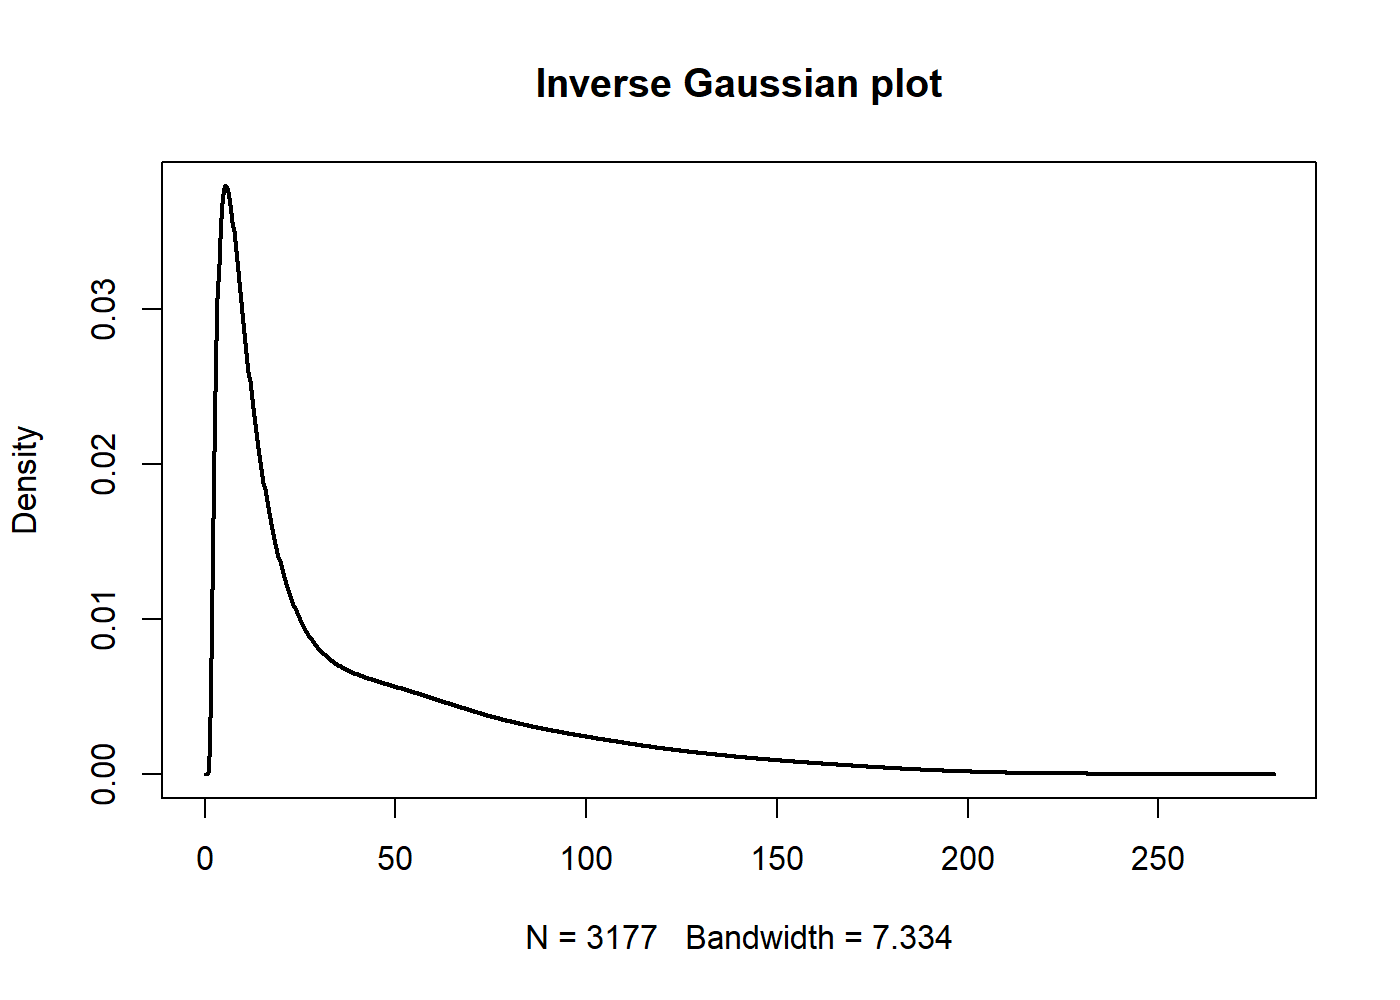
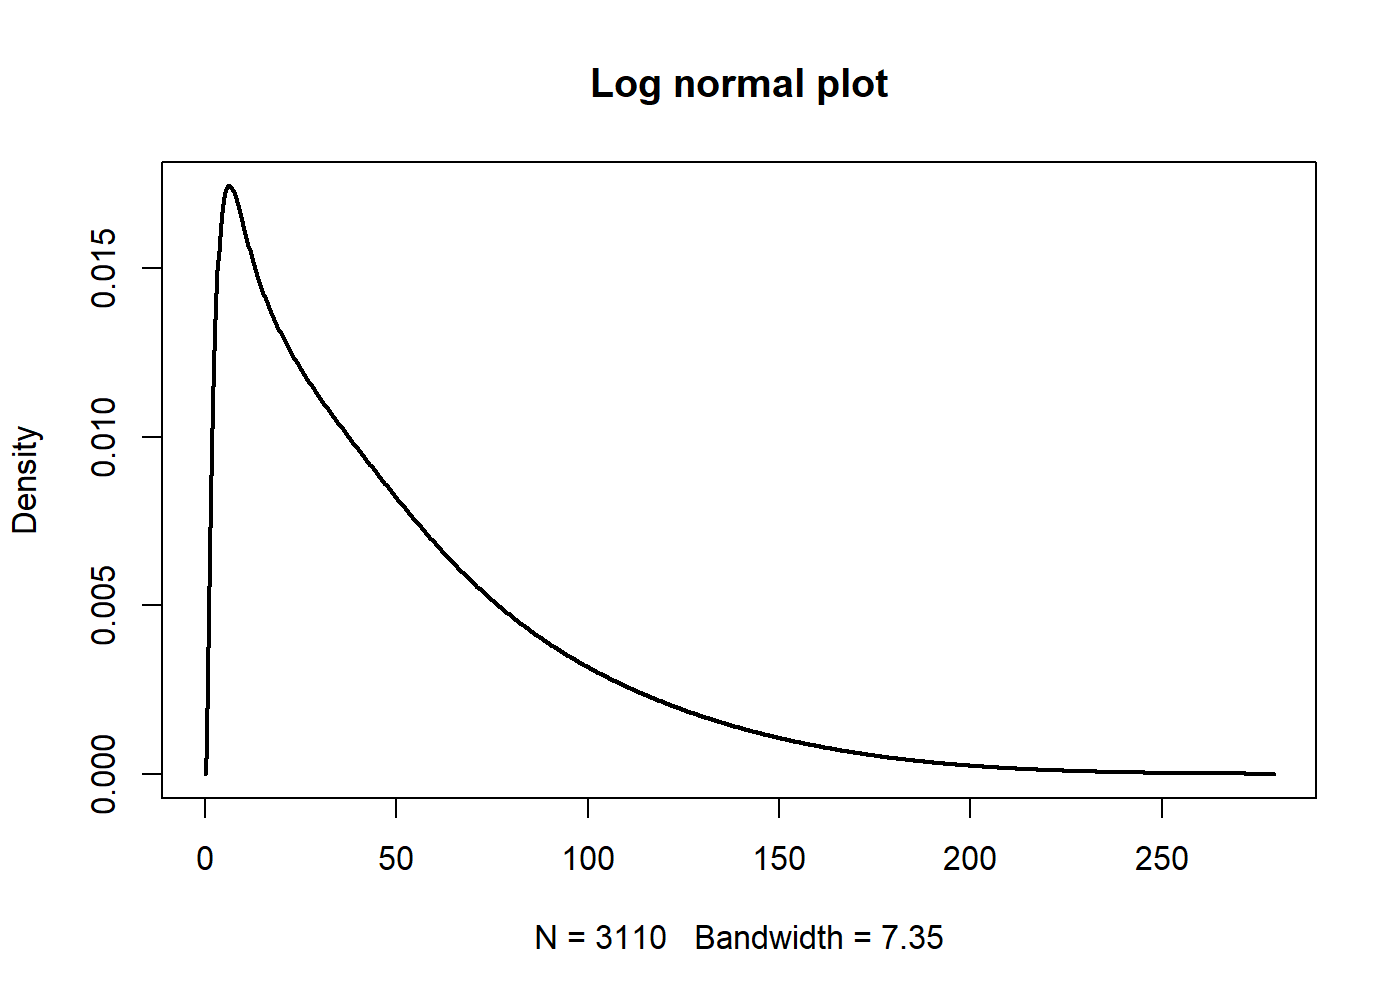
Updated readme.

diff --git a/README.md b/README.md
@@ -22,7 +22,31 @@ have decided on emulating the behaviour of the function `density` in the
 `stats` package (which is included in your `R` installation) to the
 highest extent possible.
 
-The package only contains one function, `kdensity`.
+In addition to parametric starts, the package implements some
+*asymmetric kernels*. These kernels are useful when modelling data with
+sharp boundaries, such as data supported on the positive half-line or
+the unit interval. Currently we support the following asymmetric
+kernels:
+
+  - MC Jones and Daniel Henderson’s Gaussian copula KDE, from
+    [Kernel-Type Density Estimation on the Unit Interval
+    (2007)](https://academic.oup.com/biomet/article-abstract/94/4/977/246269).
+    This is used for data on the unit interval. The bandwidth selection
+    mechanism described in that paper is implemented as well. This
+    kernel is called `gcopula`.
+
+  - Song Xi Chen’s two gammakernels from [Probability Density Function
+    Estimation Using Gamma Kernels
+    (2000)](https://link.springer.com/article/10.1023/A:1004165218295).
+    This is used for data supported on the positive half-line. These
+    kernels are called `gamma` and `gamma_biased`.
+
+So the package has two main features: parametric starts and asymmetric
+kernels. The features can be combined to make asymmetric kernel
+densities estimators with parametric starts, see the example below. The
+package contains only one function, `kdensity`, in addition to the
+generics `plot`, `points`, `lines`, `summary`, and `print`. It’s not
+completely documentet yet, so stay tuned for that.
 
 ## Example
 
@@ -33,37 +57,73 @@ estimation with a parametric start, as it is supported on positive
 half-line. In such a case, traditional density estimators are prone to
 serious *boundary bias*. However, parametric starts allows us to
 circumvent this by using a pre-specified parametric density supported on
-the half-line, for instance the exponential.
+the half-line, for instance the exponential, which clearly fits the data
+well.
 
 ``` r
 library("kdensity")
-plot(kdensity(sunspot.month, start = "exponential", adjust = 2), lwd = 2)
+data = sunspot.month[sunspot.month != 0]
+x = seq(0, 300, by = 0.5)
+hist(data, freq = FALSE, breaks = 40,
+     main = "Monthly Sunspot Numbers, 1749 – 1983",
+     xlab = "Monthly mean relative sunspot numbers")
+lines(kdensity(data, start = "exponential", kernel = "gaussian", adjust = 1),
+      lwd = 2, lty = 2, col = "red")
+lines(x, dexp(x, 1/mean(data)), lwd = 2, lty = 3, col = "blue")
 ```
 
-<img src="README_files/figure-gfm/small plot-1.png" width="750px" />
+<img src="README_files/figure-gfm/gaussiankernelexp plot-1.png" width="750px" />
 
-Lets compare this to the behaviour of `density` and `dexp`:
+As seen from the histogram, the fit is quite bad, so let us try out the
+`gamma` kernel. Notice the argument `start = "uniform"`, which states
+that the parametric start is *constant*. Using this argument reduces the
+density estimates to a classical kernel density estimate.
 
 ``` r
-y = seq(0, max(sunspot.month) + 10, by = 0.5)
-plot(kdensity(sunspot.month, start = "exponential", adjust = 2), lwd = 2)
-lines(y, dexp(y, 1/mean(sunspot.month)), lty = 2)
-lines(density(sunspot.month, kernel = "gauss", adjust = 2), lty = 3)
+library("kdensity")
+data = sunspot.month[sunspot.month != 0]
+x = seq(0, 300, by = 0.5)
+hist(data, freq = FALSE, breaks = 40,
+     main = "Monthly Sunspot Numbers, 1749 – 1983",
+     xlab = "Monthly mean relative sunspot numbers")
+lines(kdensity(data, start = "uniform", kernel = "gamma", adjust = 1),
+      lwd = 2, lty = 2, col = "red")
+lines(x, dexp(x, 1/mean(data)), lwd = 2, lty = 3, col = "blue")
 ```
 
-<img src="README_files/figure-gfm/full plot-1.png" width="750px" />
+<img src="README_files/figure-gfm/gammakernel plot-1.png" width="750px" />
 
-Here `density` is easily seen to be far more affected by boundary bias
-than `kdensity`, and it capturs more of features of the data than the
-exponential distribution does.
+While this helped, the fit could certainly be better, as the density
+estimate is artificially pushed downwards at the boundary. So let us try
+a `gamma` kernel with an `exponential` start:
+
+``` r
+library("kdensity")
+data = sunspot.month[sunspot.month != 0]
+x = seq(0, 300, by = 0.5)
+hist(data, freq = FALSE, breaks = 40,
+     main = "Monthly Sunspot Numbers, 1749 – 1983",
+     xlab = "Monthly mean relative sunspot numbers")
+lines(kdensity(data, start = "exponential", kernel = "gamma", adjust = 1),
+      lwd = 2, lty = 2, col = "red")
+lines(x, dexp(x, 1/mean(data)), lwd = 2, lty = 3, col = "blue")
+```
+
+<img src="README_files/figure-gfm/gammakernelexp plot-1.png" width="750px" />
+
+This fit is much better now. What’s more, it gives qualitatively
+different predictions about the probability of extremely many sunspots
+than the exponential does.
 
 ## How to use
 
 The function `kdensity` takes some `data`, a kernel `kernel` and a
-parametric start `start`. Currently the following arguments for `kernel`
-are supported: `gaussian`, `laplace`, `epanechnikov`, `rectangular`,
-`triangular`, `biweight`, `triweight`, `tricube`, `cosine`, and
-`optcosine`. For the `start` parameter, the following are accepted (as
+parametric start `start`. Currently the following arguments for a
+symmetric `kernel` are supported: `gaussian`, `laplace`, `epanechnikov`,
+`rectangular`, `triangular`, `biweight`, `triweight`, `tricube`,
+`cosine`, `optcosine`. In addition, `gcopula` is supported for the unit
+interval, while `gamma` and `gamma_biased` are supported for the positve
+half-line. For the `start` parameter, the following are accepted (as
 strings\!): `uniform`, `normal`, `gamma`, `exponential`,
 `inverse_gaussian`, `lognormal`, `beta`, and `laplace`. Their parameters
 are estimated by maximum likelihood. In addition to this, you can
@@ -73,53 +133,51 @@ automatically deduced from the choice of `start`. Still, if you want to
 have support on \[0, 12.3\], it is possible.
 
 Finally, instead of specifying `start` as a string, you can send a
-`list` containing two named functions as elements: `density` is a
-density function with named parameters, while `estimator` is a function
-of `data` that estimates the parameters for you. For example, take a
-look at this implementation of the inverse Gaussian distribution:
+`list` containing three named elements: `density` is a density function
+with named parameters (where `x` is the main argument), `estimator` is a
+function of `data` that estimates the parameters for you, and `support`
+is the domain of defition for the density. For example, take a look at
+this implementation of the log-normal distribution:
 
 ``` r
-start_inverse_gaussian = list(
-  density = statmod::dinvgauss,
+lognormal = list(
+  density = dlnorm,
   estimator = function(data) {
-    c(mean       = mean(data),
-      dispersion = mean(1/data - 1/mean(data)))
+    c(meanlog = mean(log(data)),
+      sdlog = sd(log(data)))
   },
   support = c(0, Inf)
 )
 ```
 
-Using this definition we can run a new `kdensity` function as
-follows:
+Using this definition we can run a new `kdensity` function as follows:
 
 ``` r
-plot(kdensity(sunspot.month + 1, start = start_inverse_gaussian, adjust = 2), lwd = 2,
-     main = "Inverse Gaussian plot")
+plot(kdensity(data, start = lognormal, kernel = "gamma"), 
+     lwd = 2, main = "Log normal plot")
 ```
 
 <img src="README_files/figure-gfm/lnormplot-1.png" width="750px" />
-
-Here `sunspot.month + 1` is used inside `kdensity` in order to make the
-data strictly positive.
 
 The `plot` function works just as in the case of `stats::density`.
 Moreover, `lines` and `points` does as well. Since the return value of
 `kdensity` is a function, it is callable, as in:
 
 ``` r
-new_density = kdensity(sunspot.month + 1, start = "lognormal", bw = 16)
+new_density = kdensity(data, start = "exponential")
 new_density(56.7)
 ```
 
-    ## [1] 0.007617428
+    ## [1] 0.008375948
 
 ## Installation
 
-First you need to install the package `devtools` from `CRAN`. Then you
-can call:
+First you need to install the package `devtools` from `CRAN`. From
+inside `R`, use the following command.
 
 ``` r
 devtools::install_github("JonasMoss/kdensity")
 ```
 
-Enjoy\!
+This installs the latest version of the package from GitHub. Enjoy, and
+please feel compelled to e-mail us suggestions and bug reports.
